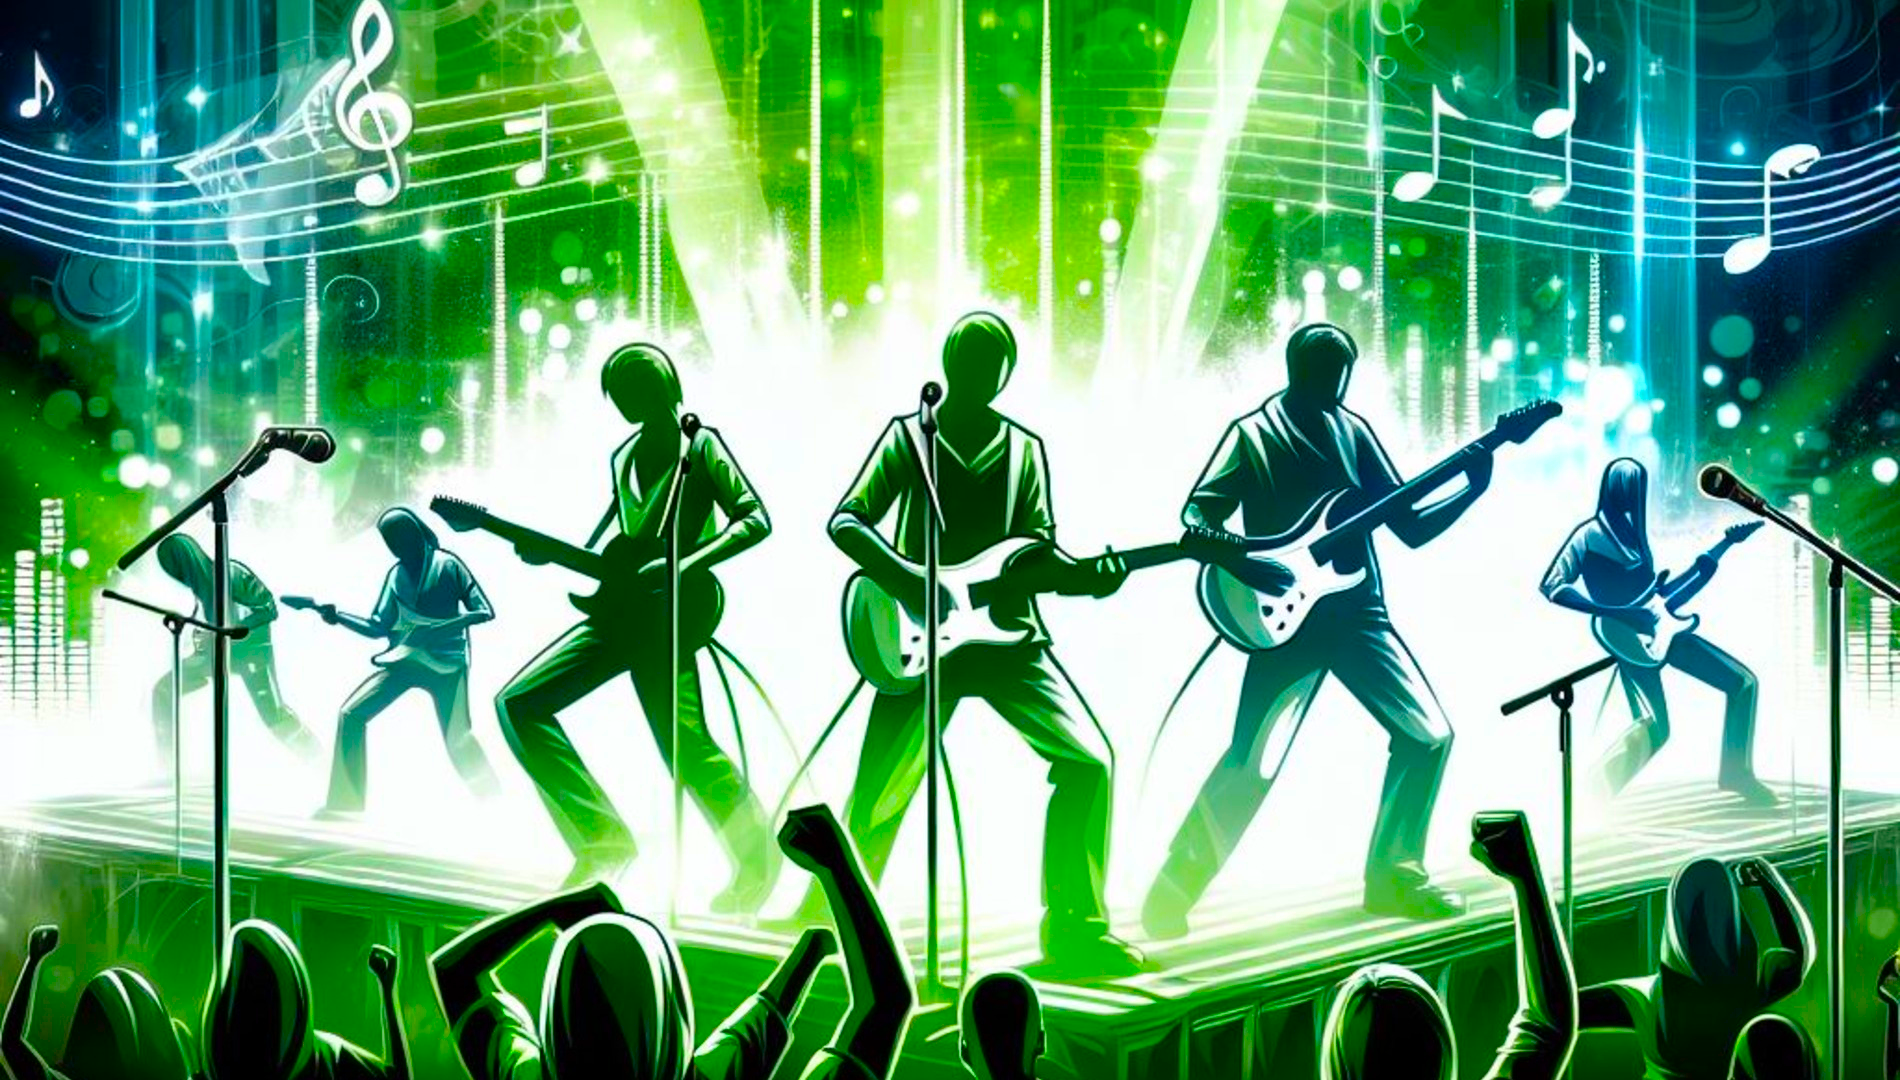
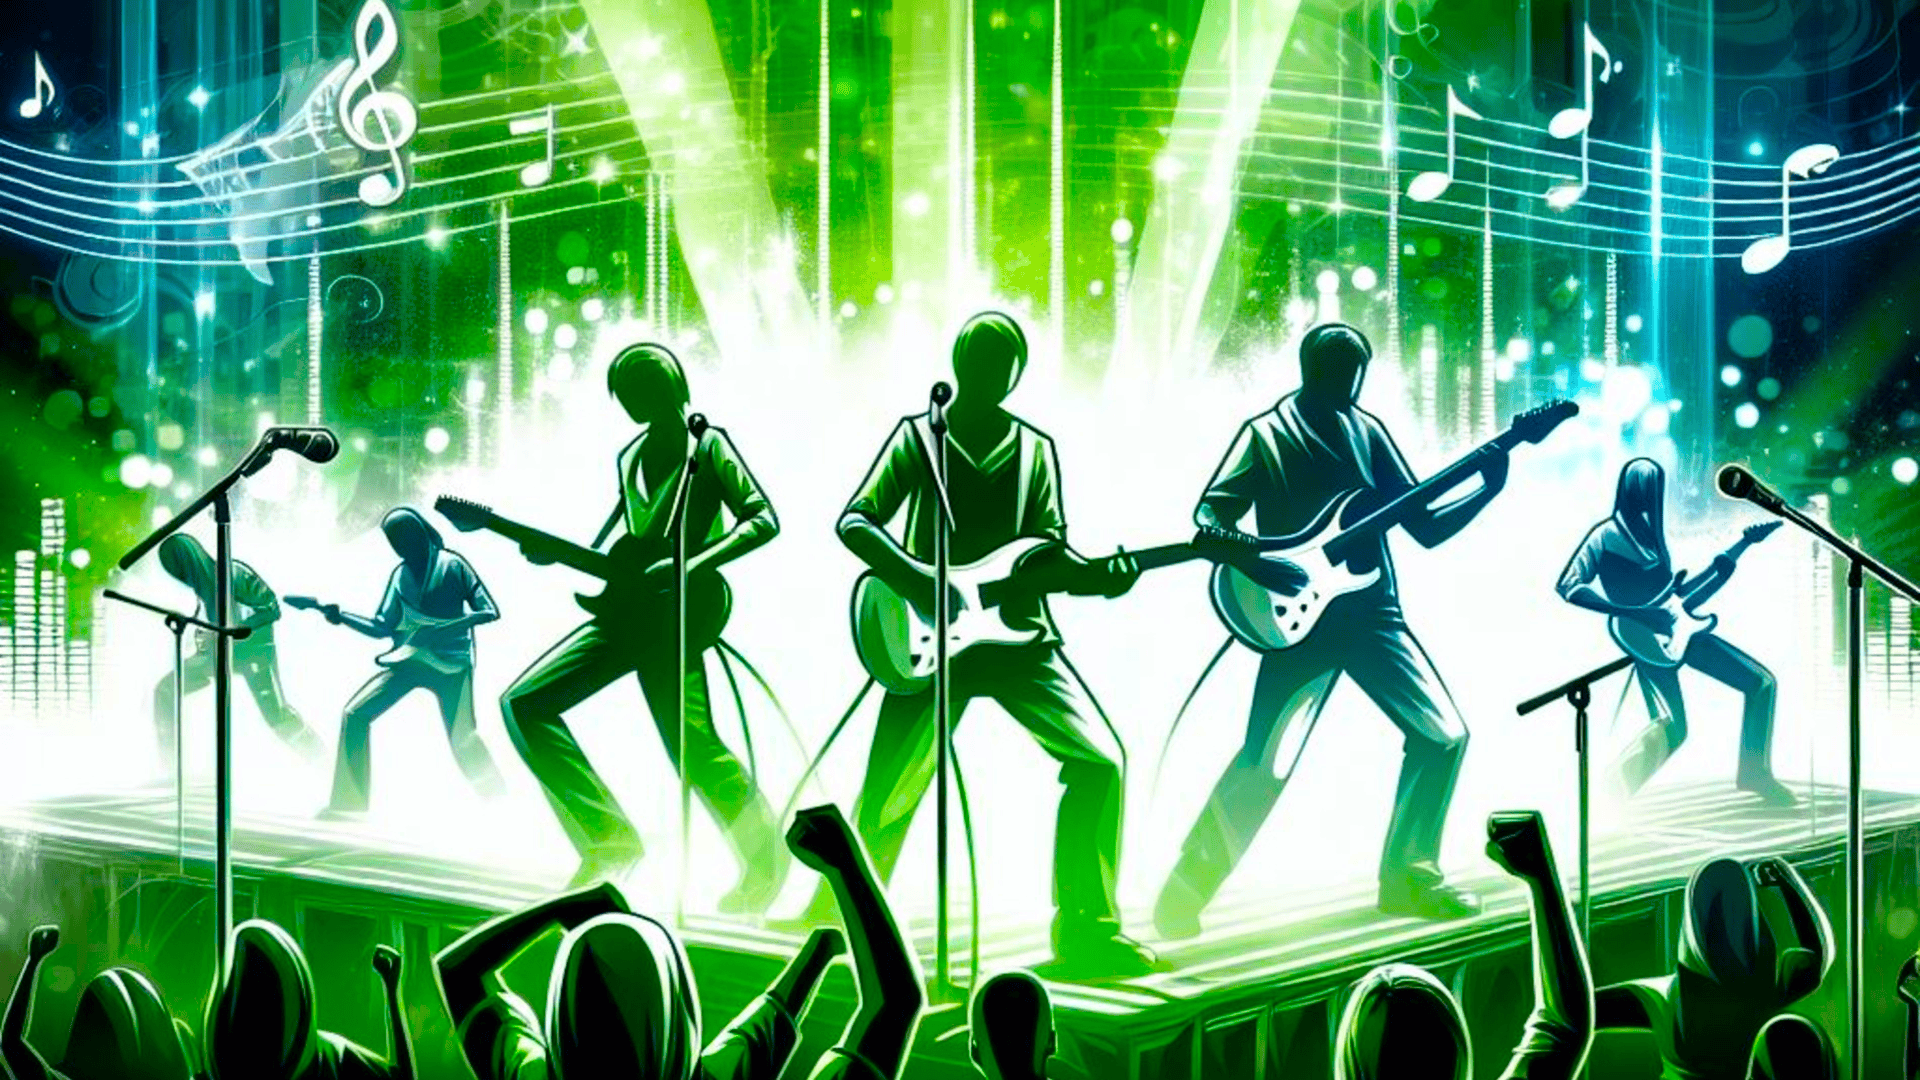
mettre fenetre principal et photo background meilleur score

diff --git a/QtWidgetsApplication1/QtWidgetsApplication1/myQtManager.cpp b/QtWidgetsApplication1/QtWidgetsApplication1/myQtManager.cpp
@@ -96,8 +96,13 @@ void myQtManager::qtPageAccueil(QWidget* parent, QStackedWidget* stack, Gameplay
     QVBoxLayout* layout = new QVBoxLayout(page);
     layout->setAlignment(Qt::AlignCenter);
 
-    // Conteneur pour centrer les éléments
+    // Conteneur pour centrer les éléments avec fond semi-transparent
     QWidget* container = new QWidget();
+    container->setStyleSheet(
+        "background-color: rgba(0, 0, 0, 150); " // Semi-transparence
+        "border-radius: 25px;"
+        "padding: 20px;"
+    );
     QVBoxLayout* containerLayout = new QVBoxLayout(container);
     containerLayout->setAlignment(Qt::AlignCenter);
 
@@ -107,13 +112,11 @@ void myQtManager::qtPageAccueil(QWidget* parent, QStackedWidget* stack, Gameplay
     labelTitre->setStyleSheet(
         "font-size: 50px;"
         "font-family: Impact, Haettenschweiler, 'Arial Narrow Bold', sans-serif;"
-        "color: "+COULEUR_BOUTON+";"  // Vert flashy
+        "color: " + COULEUR_BOUTON + ";"  // Vert flashy
         "font-weight: bold;"
         "letter-spacing: 2px;"
-        "border-radius: 25px;"  // Arrondi du titre
-        "padding: 10px;"
         "text-shadow: 3px 3px 10px rgba(0, 255, 0, 0.8), 5px 5px 15px rgba(0, 255, 0, 0.5);"
-        "background: none;"  // Supprime le fond gris
+        "background: none;"
     );
     containerLayout->addWidget(labelTitre);
 
@@ -123,25 +126,30 @@ void myQtManager::qtPageAccueil(QWidget* parent, QStackedWidget* stack, Gameplay
     inputNom->setStyleSheet(
         "background-color: white; "
         "color: black; "
-        "border-radius: 25px;"  // Arrondi du champ
+        "border-radius: 25px; "
         "padding: 10px; "
         "font-size: 18px;"
     );
     inputNom->setFixedSize(300, 50);
-    containerLayout->addWidget(inputNom, 0, Qt::AlignHCenter);  // Centré horizontalement
+    containerLayout->addWidget(inputNom, 0, Qt::AlignHCenter);
 
     // Bouton de connexion stylé et centré
     QPushButton* btnLogin = new QPushButton("LOGIN");
     btnLogin->setStyleSheet(
-        "background-color: " + COULEUR_BOUTON + "; "
-        "color: " + COULEUR_TEXTE_BOUTON + "; "
-        "font-size: 20px; "
-        "border-radius: 25px;"  // Arrondi du bouton
-        "padding: 10px;"
-        "border: 2px solid white;"
+        "QPushButton { "
+        "    background-color: " + COULEUR_BOUTON + "; "
+        "    color: white; "
+        "    font-size: 25px; "
+        "    border-radius: 25px; "
+        "    padding: 5px 10px; "
+        "}"
+        "QPushButton:hover { "
+        "    background-color: gray; "
+        "    color: white; "
+        "}"
     );
     btnLogin->setFixedSize(250, 50);
-    containerLayout->addWidget(btnLogin, 0, Qt::AlignHCenter);  // Centré horizontalement
+    containerLayout->addWidget(btnLogin, 0, Qt::AlignHCenter);
 
     layout->addWidget(container);
 
@@ -173,27 +181,32 @@ void myQtManager::qtPageAccueil(QWidget* parent, QStackedWidget* stack, Gameplay
 void myQtManager::qtPageMenu(QWidget* parent, QStackedWidget* stack, Gameplay* G) {
     // Créer un widget pour la page du menu
     QWidget* pageMenu = new QWidget();
-    QVBoxLayout* layout = new QVBoxLayout(pageMenu);
-    layout->setAlignment(Qt::AlignCenter);
+    pageMenu->setStyleSheet("background-color: " + COULEUR_FOND + ";");
 
     // Image de fond
     QLabel* backgroundLabel = new QLabel(pageMenu);
     backgroundLabel->setGeometry(0, 0, TAILLE_ECRAN_X, TAILLE_ECRAN_Y);
     QPixmap resizedPixmap("./Images/placeholder_background_login.png");
     backgroundLabel->setPixmap(resizedPixmap);
-    backgroundLabel->setScaledContents(true); // Correction pour assurer que l'image prend bien tout l'espace
+    backgroundLabel->setScaledContents(true);
     backgroundLabel->lower();
 
-    QGraphicsOpacityEffect* opacityEffect = new QGraphicsOpacityEffect();
-    opacityEffect->setOpacity(0.5);
-    backgroundLabel->setGraphicsEffect(opacityEffect);
+    // Ajouter une couche semi-transparente au-dessus de l'image pour un effet d'assombrissement
+    QWidget* overlay = new QWidget(pageMenu);
+    overlay->setGeometry(0, 0, TAILLE_ECRAN_X, TAILLE_ECRAN_Y);
+    overlay->setStyleSheet("background-color: rgba(0, 0, 0, 100);"); // Ajuster l'opacité si nécessaire
+    overlay->lower();
 
-    QVBoxLayout* menuLayout = new QVBoxLayout;
-    menuLayout->setAlignment(Qt::AlignCenter);
-    menuLayout->setSpacing(25); // Espacement entre les éléments
+    // Conteneur central pour le menu 
+    QWidget* menuBox = new QWidget(pageMenu);
+    menuBox->setStyleSheet("background-color: rgba(0, 0, 0, 150); border-radius: 25px; padding: 20px;");
+    menuBox->setFixedSize(600, 400);
 
-    // Titre du menu avec un style inspiré de Guitar Hero
-    QLabel* titre = new QLabel("Menu Principal");
+    QVBoxLayout* menuBoxLayout = new QVBoxLayout(menuBox);
+    menuBoxLayout->setAlignment(Qt::AlignCenter);
+
+    // Titre du menu
+    QLabel* titre = new QLabel("Menu Principal", menuBox);
     myQt_setFont(titre, 40);
     titre->setAlignment(Qt::AlignCenter);
     titre->setStyleSheet(
@@ -203,23 +216,21 @@ void myQtManager::qtPageMenu(QWidget* parent, QStackedWidget* stack, Gameplay* G
         "text-transform: uppercase; "
         "letter-spacing: 3px; "
         "text-shadow: 3px 3px 5px rgba(0, 0, 0, 0.8); "
-        "border: 2px solid white; "
+        "border: none; "
         "padding: 10px; "
         "background: linear-gradient(to right, #ff0000, #ff6600, #ffff00, #33cc33, #0099ff, #9900cc); "
-        "border-radius: 10px; "
-    );
-    menuLayout->addWidget(titre);
+        "border-radius: 10px;");
+    menuBoxLayout->addWidget(titre);
 
     // Liste des boutons
-    QStringList buttonNames = { "Demarrer", "Voir meilleurs scores", "Informations joueur", "Paramètres" ,"Deconnexion" };
+    QStringList buttonNames = { "Démarrer", "Voir meilleurs scores", "Informations joueur", "Paramètres", "Déconnexion" };
     QVector<QPushButton*> buttons;
 
-    // Création des boutons avec un style uniforme
     for (const QString& name : buttonNames) {
-        QPushButton* button = new QPushButton(name);
+        QPushButton* button = new QPushButton(name, menuBox);
         button->setStyleSheet(
             "QPushButton { "
-            "    background-color: green; "
+            "    background-color: " + COULEUR_BOUTON + "; "
             "    color: white; "
             "    font-size: 25px; "
             "    border-radius: 5px; "
@@ -232,43 +243,37 @@ void myQtManager::qtPageMenu(QWidget* parent, QStackedWidget* stack, Gameplay* G
         );
         button->setFixedSize(250, 50);
         buttons.append(button);
-        menuLayout->addWidget(button, 0, Qt::AlignHCenter);
+        menuBoxLayout->addWidget(button, 0, Qt::AlignCenter);
     }
 
-    // S'assurer que menuLayout est bien ajouté au layout principal
-    layout->addLayout(menuLayout);
+    // Ajouter la box centrée dans la page
+    QVBoxLayout* mainLayout = new QVBoxLayout(pageMenu);
+    mainLayout->setAlignment(Qt::AlignCenter);
+    mainLayout->addStretch();
+    mainLayout->addWidget(menuBox, 0, Qt::AlignCenter);
+    mainLayout->addStretch();
+    pageMenu->setLayout(mainLayout);
 
-    // Gestion des connexions des boutons
+    // Connexions des boutons
     QObject::connect(buttons[0], &QPushButton::clicked, [=]() {
-        fenetres QtFenetre = Game;
-        changerDePage(stack, QtFenetre, G);
+        changerDePage(stack, Game, G);
         });
-
     QObject::connect(buttons[1], &QPushButton::clicked, [=]() {
-        fenetres QtFenetre = MeilleursScores;
-        changerDePage(stack, QtFenetre, G);
+        changerDePage(stack, MeilleursScores, G);
         });
-
     QObject::connect(buttons[2], &QPushButton::clicked, [=]() {
-        fenetres QtFenetre = Informations;
-        changerDePage(stack, QtFenetre, G);
+        changerDePage(stack, Informations, G);
         });
-
     QObject::connect(buttons[3], &QPushButton::clicked, [=]() {
-        fenetres QtFenetre = Parametre;
-        changerDePage(stack, QtFenetre, G);
+        changerDePage(stack, Parametre, G);
         });
-
     QObject::connect(buttons[4], &QPushButton::clicked, [=]() {
-        fenetres QtFenetre = Accueil;
-        changerDePage(stack, QtFenetre, G);
+        changerDePage(stack, Accueil, G);
         });
 
     // Ajouter la page au QStackedWidget
     stack->addWidget(pageMenu);
 }
-
-
 void myQtManager::qtPageInformations(QWidget* parent, QStackedWidget* stack, Gameplay* G)
 {
     QWidget* window = new QWidget(parent);
@@ -433,13 +438,8 @@ void myQtManager::qtPageParametres(QWidget* window, QStackedWidget* stack, Gamep
     // Image de fond (à l'arrière-plan)
     QLabel* backgroundLabel = new QLabel(pageParametre);
     backgroundLabel->setGeometry(0, 0, TAILLE_ECRAN_X, TAILLE_ECRAN_Y);
-    QPixmap resizedPixmap("./images/Setting.png");
-    backgroundLabel->setPixmap(resizedPixmap);
     backgroundLabel->setScaledContents(true);  // L'image de fond ne sera pas redimensionnée
     backgroundLabel->lower();
-    QGraphicsOpacityEffect* opacityEffect = new QGraphicsOpacityEffect();
-    opacityEffect->setOpacity(0.5);  // Appliquer un effet de transparence
-    backgroundLabel->setGraphicsEffect(opacityEffect);
 
     // Ajouter un espacement entre le titre et les boutons
     QWidget* spacerTop = new QWidget();
@@ -551,115 +551,113 @@ void myQtManager::qtPageMeilleurScore(QWidget* window, QStackedWidget* stack, Ga
 {
     QWidget* pageMeilleursScores = new QWidget();
     QVBoxLayout* mainLayout = new QVBoxLayout(pageMeilleursScores);
+    mainLayout->setContentsMargins(20, 20, 20, 20); // Marge globale
+
+    // Image de fond
+    QLabel* backgroundLabel = new QLabel(pageMeilleursScores);
+    backgroundLabel->setGeometry(0, 0, TAILLE_ECRAN_X, TAILLE_ECRAN_Y);
+    QPixmap resizedPixmap("./images/meilleurscore.png");
+    backgroundLabel->setPixmap(resizedPixmap);
+    backgroundLabel->setScaledContents(true);
+    backgroundLabel->lower(); // Assurer que l'image reste en arrière-plan
 
     // Titre "Meilleur Score"
     QLabel* titre = new QLabel("Meilleur Score");
-    titre->setAlignment(Qt::AlignTop | Qt::AlignHCenter);
-    QFont fontTitre("Arial", 16, QFont::Bold);
+    titre->setAlignment(Qt::AlignHCenter);
+    QFont fontTitre("Arial", 20, QFont::Bold);
     titre->setFont(fontTitre);
     titre->setStyleSheet(COULEUR_FOND);
     mainLayout->addWidget(titre);
 
-    //debug
+    // Espacement après le titre
+    mainLayout->addSpacing(10);
+
+    // Debug
     qDebug() << "qtPageMeilleurScore appelée\n";
 
-    // Récupération des meilleurs scores depuis Gameplay
-    std::pair < std::string, int> scores[10];
+    // Récupération des meilleurs scores
+    std::pair<std::string, int> scores[10];
     DAOSqlite* sqlite = DAOSqlite::getInstance();
     sqlite->getMeilleurScore(scores);
+
+    // Layout contenant la liste des scores
+    QVBoxLayout* scoreLayout = new QVBoxLayout();
+    scoreLayout->setSpacing(8); // Espacement entre chaque score
+
     // Affichage des scores
     for (size_t i = 0; i < 10; ++i) {
         if (scores[i].first != "") {
-            // Définition des couleurs et des médailles
-            QString bgColor = "rgba(128, 128, 128, 0.5)"; // Fond général vert pour toutes les cartes
-            QString textColor = COULEUR_TEXTE_BOUTON; // Blanc pour contraste
-            QString medal;
-            QString borderColor = COULEUR_IMAGE_BORDURE; // Bordure verte par défaut
-            QString nameBgColor; // Couleur de fond pour le nom du joueur
-            QString positionTextColor; // Couleur pour le texte de la position
+            QString medal, borderColor, nameBgColor, positionTextColor, textColor = COULEUR_TEXTE_BOUTON;
 
-            // Couleurs spécifiques pour les noms et positions du top 3, gris transparent pour les autres
             if (i == 0) {
-                medal = "🥇";
-                borderColor = "#FFD700"; // Or pour la bordure
-                nameBgColor = "#FFD700"; // Fond or pour le nom
-                positionTextColor = "#FFD700"; // Or pour la position
-                textColor = "#FFD700";
+                medal = "🥇"; borderColor = "#FFD700"; nameBgColor = "#FFD700"; positionTextColor = "#FFD700"; textColor = "#FFD700";
             }
             else if (i == 1) {
-                medal = "🥈";
-                borderColor = "#C0C0C0"; // Argent pour la bordure
-                nameBgColor = "#C0C0C0"; // Fond argent pour le nom
-                positionTextColor = "#C0C0C0"; // Argent pour la position
-                textColor = "#C0C0C0";
+                medal = "🥈"; borderColor = "#C0C0C0"; nameBgColor = "#C0C0C0"; positionTextColor = "#C0C0C0"; textColor = "#C0C0C0";
             }
             else if (i == 2) {
-                medal = "🥉";
-                borderColor = "#CD7F32"; // Bronze pour la bordure
-                nameBgColor = "#CD7F32"; // Fond bronze pour le nom
-                positionTextColor = "#CD7F32"; // Bronze pour la position
-                textColor = "#CD7F32";
-
-
+                medal = "🥉"; borderColor = "#CD7F32"; nameBgColor = "#CD7F32"; positionTextColor = "#CD7F32"; textColor = "#CD7F32";
             }
             else {
-                nameBgColor = COULEUR_TEXTE_BOUTON; // Gris semi-transparent pour les autres
-                positionTextColor = "#0000"; // Vert clair pour les positions hors top 3
+                nameBgColor = COULEUR_TEXTE_BOUTON; positionTextColor = "#000000";
             }
 
-            // Conteneur principal du score (Style carte)
+            // Cadre contenant un score
             QFrame* scoreCard = new QFrame();
-            scoreCard->setStyleSheet("background-color: " + bgColor + "; "
+            scoreCard->setStyleSheet("background-color: rgba(128, 128, 128, 0.5); "
                 "border: 2px solid " + borderColor + "; "
                 "border-radius: 10px; "
-                "padding: 10px;");
+                "padding: 5px;");
+            scoreCard->setFixedHeight(50);
 
             QHBoxLayout* rowLayout = new QHBoxLayout(scoreCard);
+            rowLayout->setContentsMargins(10, 5, 10, 5);
 
             // Position + Médaille
             QLabel* position = new QLabel(QString::number(i + 1) + ". " + medal);
-            position->setFixedWidth(60);
-            position->setFixedHeight(40);
-            position->setStyleSheet("font-weight: bold; color: " + positionTextColor + ";"); // Couleur ajustée pour la position
+            position->setFixedWidth(50);
+            position->setStyleSheet("font-weight: bold; color: " + positionTextColor + ";");
             rowLayout->addWidget(position);
 
-            // Nom du joueur avec fond spécifique
+            // Nom du joueur
             QLabel* nomJoueur = new QLabel(QString::fromStdString(scores[i].first));
-            nomJoueur->setFixedWidth(120);
-            nomJoueur->setStyleSheet("font-weight: bold; color: #000000;" // Noir sur or/argent/bronze, vert foncé sur gris
+            nomJoueur->setFixedWidth(150);
+            nomJoueur->setFixedHeight(30);
+            nomJoueur->setStyleSheet("font-weight: bold; color: #000000; "
                 "background-color: " + nameBgColor + "; "
                 "border-radius: 5px; "
-                "padding: 2px;");
-            nomJoueur->setFixedHeight(35);
-
+                "padding: 5px;");
             rowLayout->addWidget(nomJoueur);
 
             // Score
             QLabel* score = new QLabel(QString::number(scores[i].second));
             score->setFixedWidth(60);
-            score->setStyleSheet("font-weight: bold; color: " + textColor + ";"); // Blanc
-            score->setFixedHeight(35);
+            score->setStyleSheet("font-weight: bold; color: " + textColor + ";");
             rowLayout->addWidget(score);
 
-            // Ajouter le cadre au layout principal
-            mainLayout->addWidget(scoreCard);
-
-            // Debug
-            qDebug() << "Score[" << i << "] : " << QString::fromStdString(scores[i].first) << " - " << scores[i].second;
+            scoreLayout->addWidget(scoreCard);
         }
-    }    // Bouton retour aligné à droite
+    }
+
+    mainLayout->addLayout(scoreLayout);
+
+    // Espacement avant le bouton retour
+    mainLayout->addSpacing(15);
+
+    // Bouton retour aligné en bas à droite
     QPushButton* btnRetour = new QPushButton("Retour");
     btnRetour->setStyleSheet("background-color: red; color: white; padding: 5px 10px;");
-    btnRetour->setFixedSize(80, 30);
+    btnRetour->setFixedSize(100, 40);
 
     QHBoxLayout* btnLayout = new QHBoxLayout();
     btnLayout->addStretch();
     btnLayout->addWidget(btnRetour);
+
     mainLayout->addLayout(btnLayout);
 
     // Action du bouton retour
     QObject::connect(btnRetour, &QPushButton::clicked, [stack]() {
-        stack->setCurrentIndex(0); // Retour au menu principal
+        stack->setCurrentIndex(Menu);
         });
 
     pageMeilleursScores->setLayout(mainLayout);
